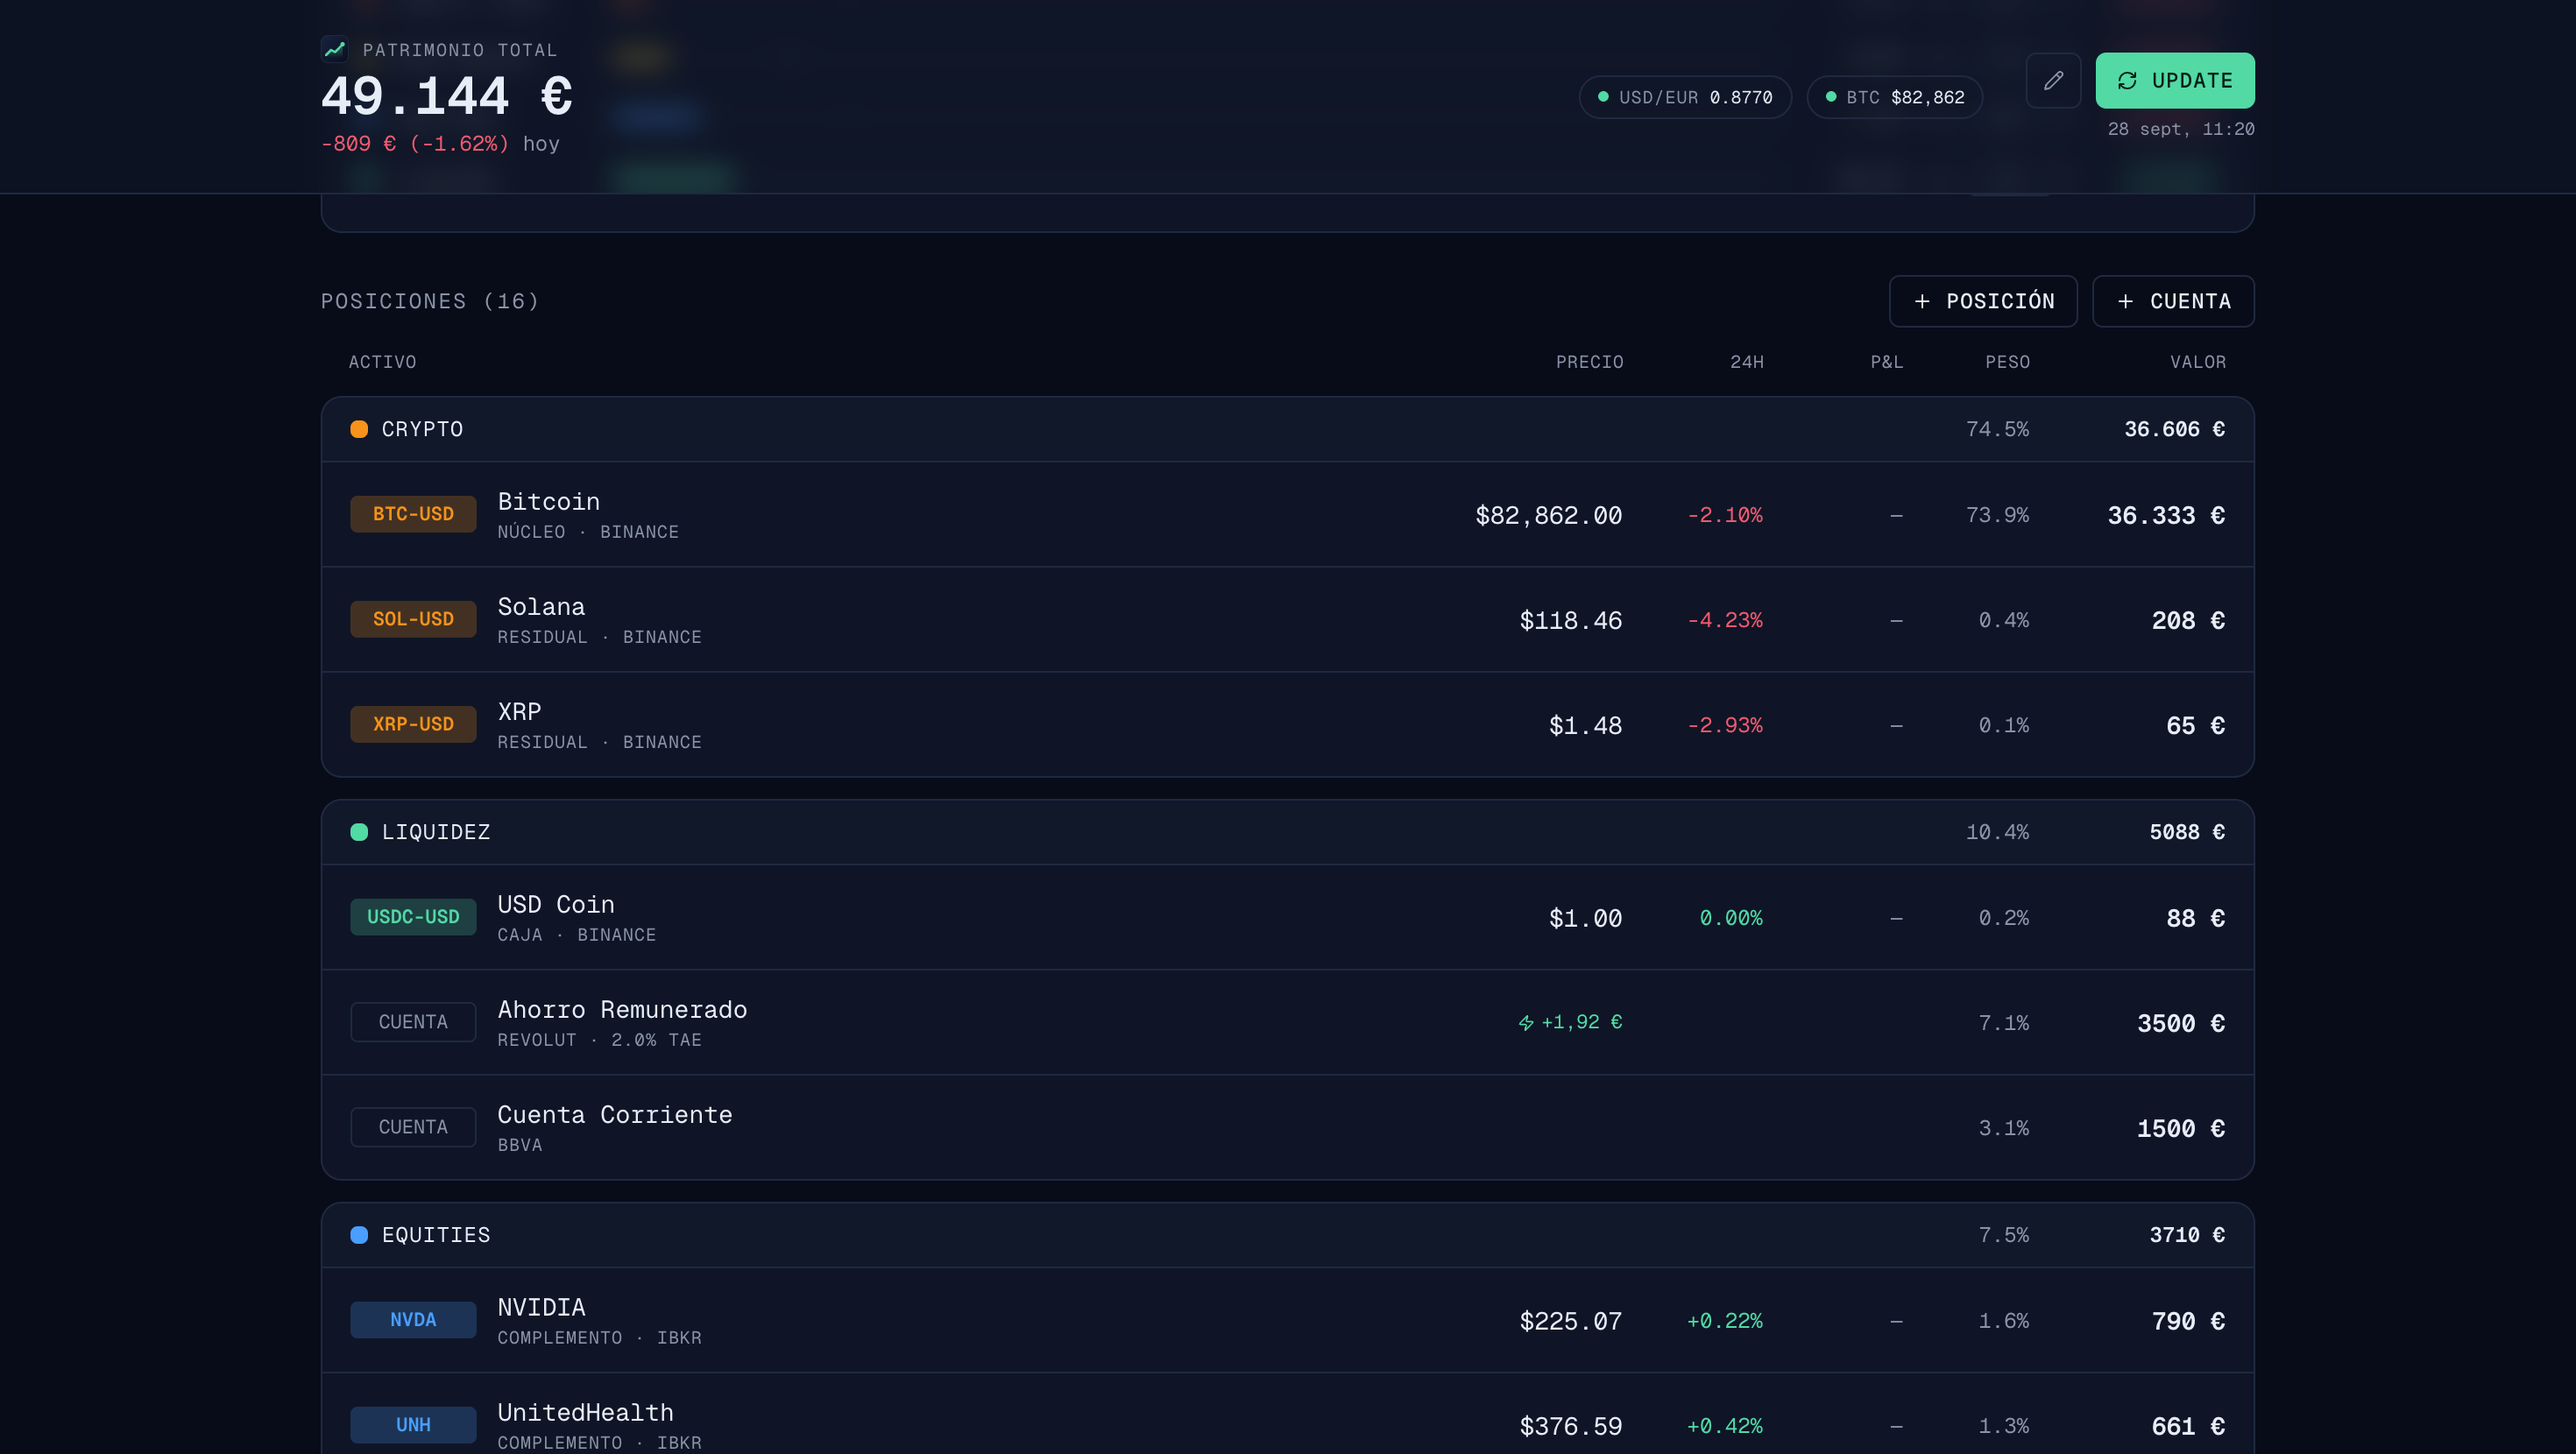
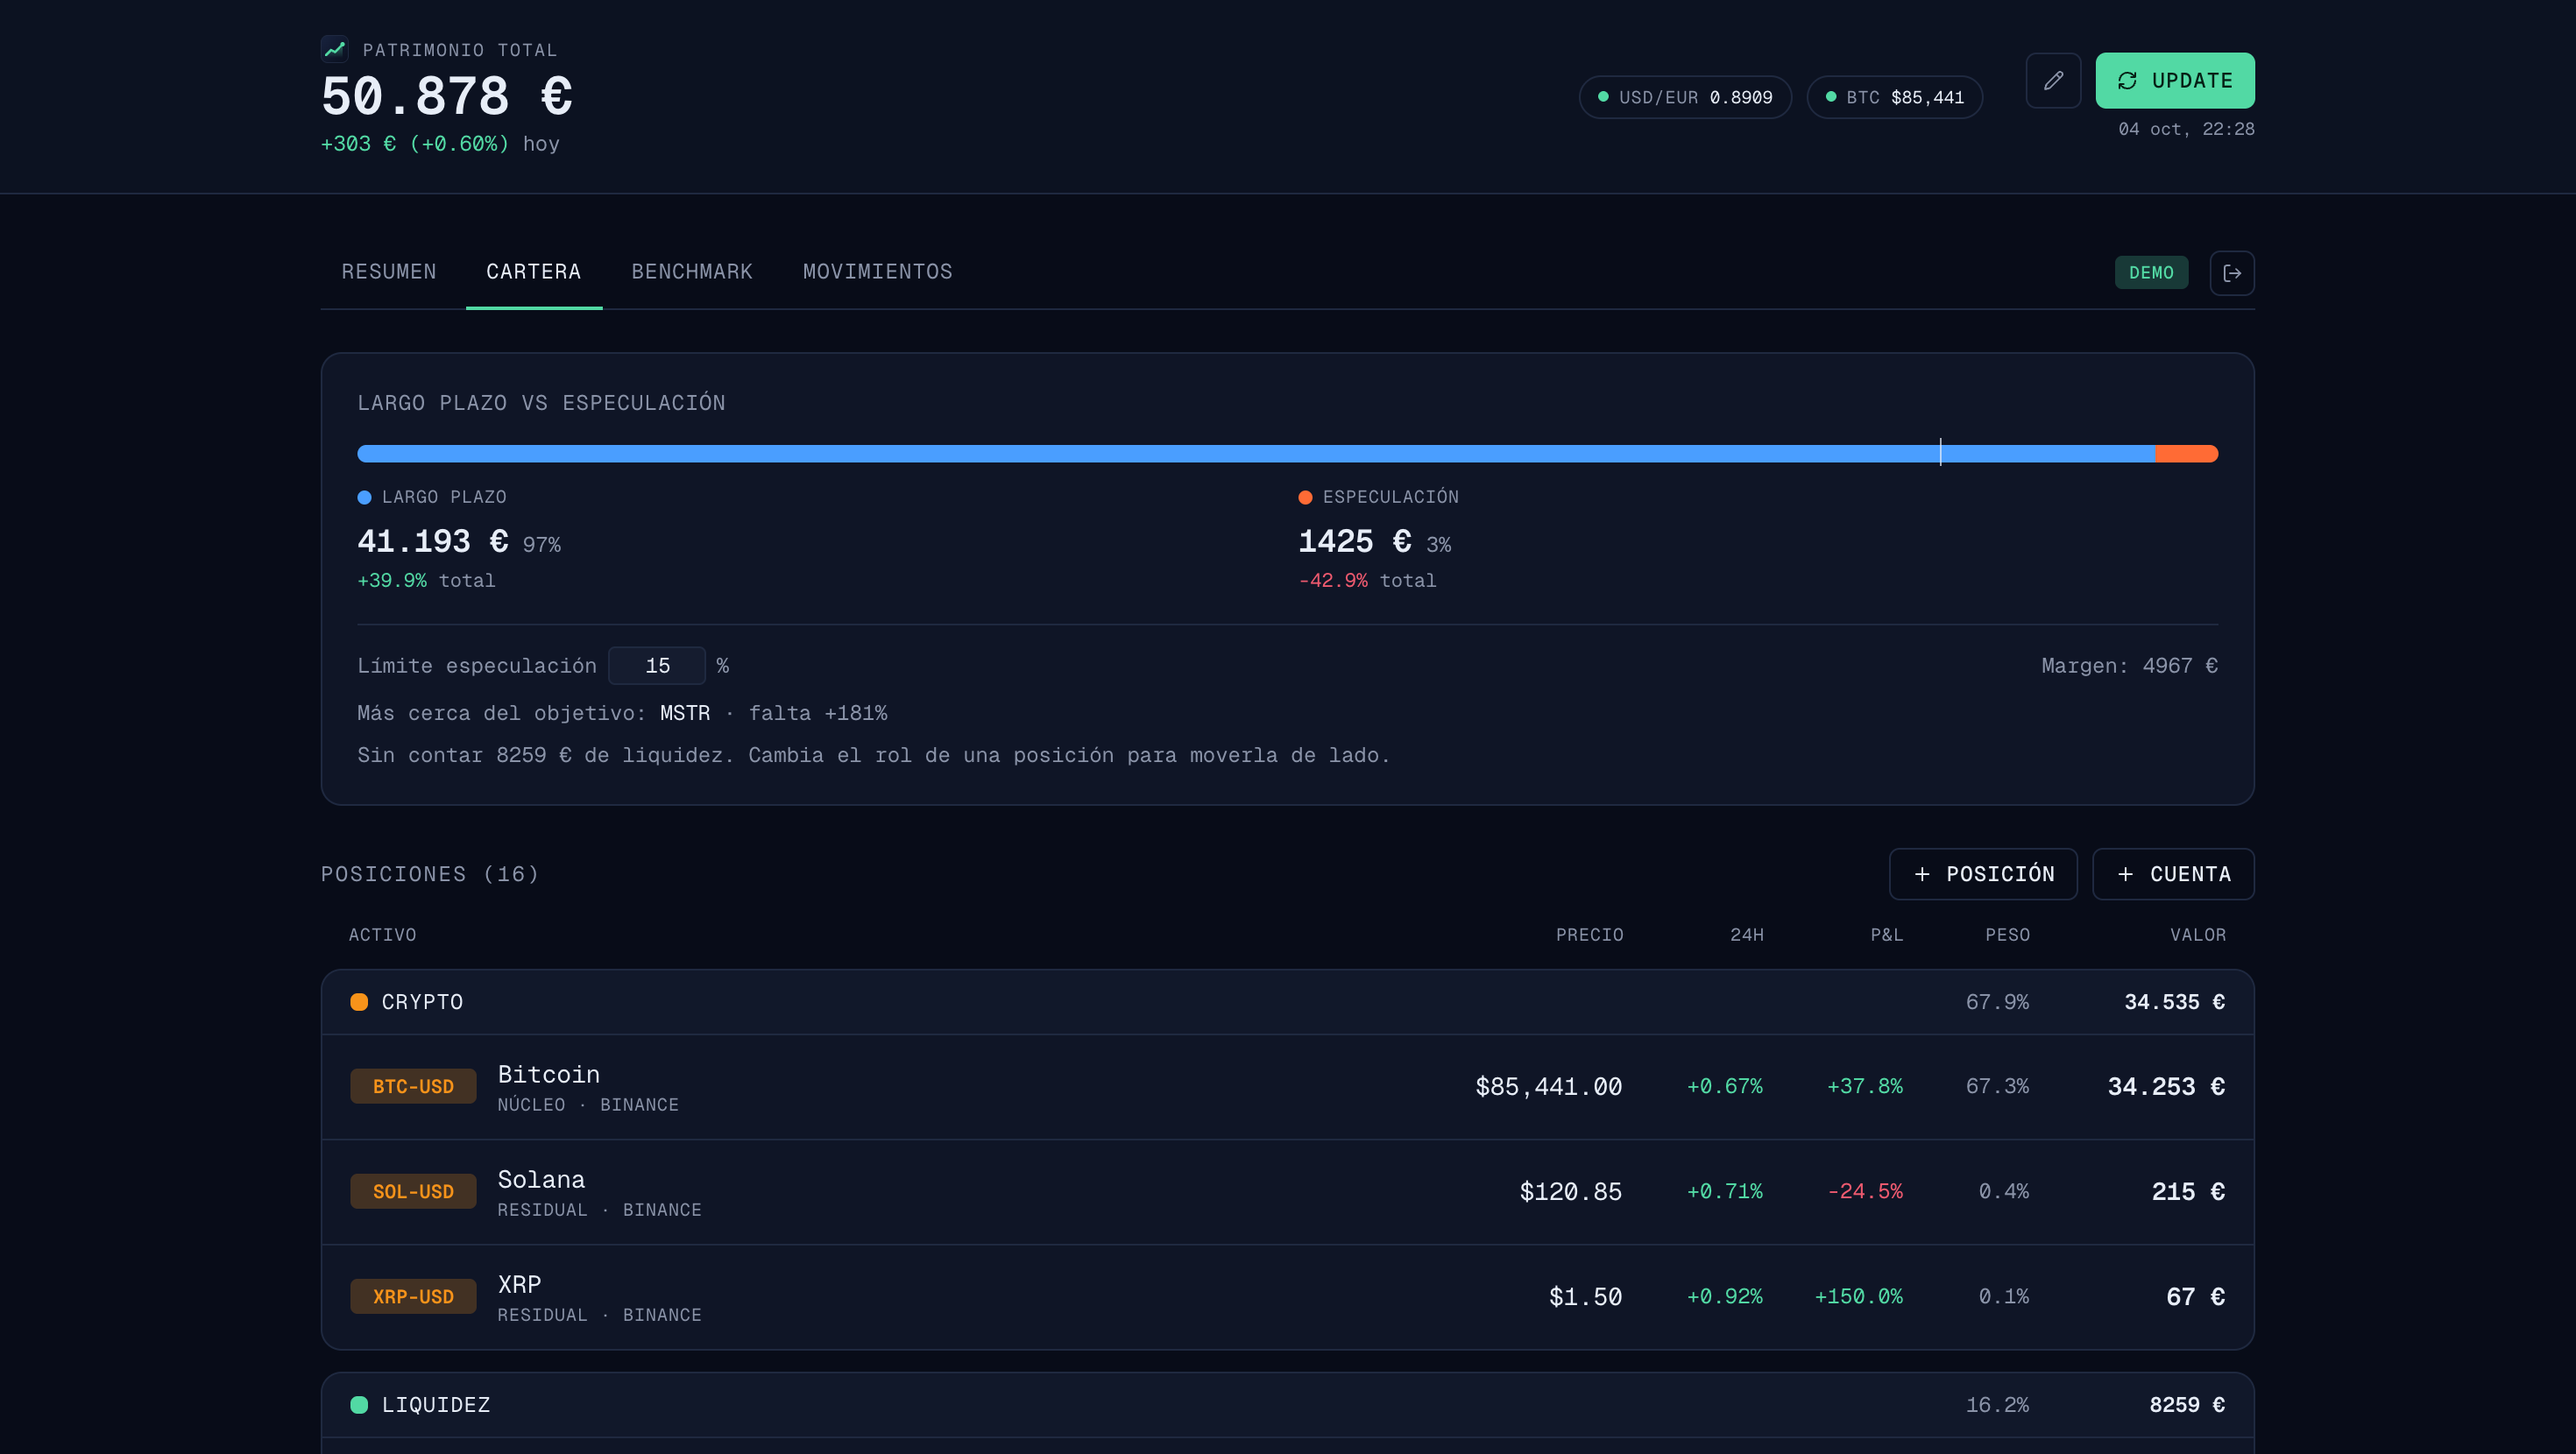
docs(readme): cover the features added since the last refresh, new screenshots and demo
The README still described the app before benchmark, the speculation
split, undo, dividends, FIFO tax and push alerts, and the screenshots
showed the old top tab bar. Highlights, screenshots (new Benchmark one),
concepts, migrations range, security notes and structure are updated,
and the demo GIF is re-recorded from the current /demo.

diff --git a/README.md b/README.md
@@ -23,27 +23,36 @@ is in Spanish, code, schema and docs are in English.
 ## Highlights
 
 - **Performance first.** The home screen opens with market P&L for the
-  selected range (1D → ALL) and the net-worth evolution chart right below,
-  in € or %. Contributions are excluded, so you see what the market did —
-  not what you deposited.
-- **One portfolio view.** Allocation vs target per category, then every
-  position and cash account in compact rows grouped by category: price, 24h,
-  P&L, weight and value.
-- **A plan, not just numbers.** Liquidity cushion vs target, this month's
-  contribution rule, and progress towards every price target.
-- **Scenario simulator.** Drag BTC, MSTR or USD/EUR and see your net worth
-  move.
-- **Journal with review step.** Queue buys, sells, deposits and withdrawals;
-  nothing touches the database until you apply them. External money is
-  logged as a contribution so it never inflates performance.
+  selected range (1D → ALL) and the net-worth evolution chart, in € or %.
+  Contributions are placed at the moment they were recorded and excluded, so
+  you see what the market did — not what you deposited.
+- **Benchmark.** Time-weighted return of your portfolio against buy-and-hold
+  S&P 500 and Bitcoin over the same range, all in € or all in $.
+- **Long-term vs speculation.** Positions are split by role into a long-term
+  core and a speculative pool, each with value, weight and cumulative P&L,
+  plus a cap that tells you when the bets have grown too big.
+- **One portfolio view.** Every position and cash account grouped by category:
+  price, today's move, cumulative % vs your average cost and the exit target
+  with how far it still is. A folded rebalance card says how many euros to buy
+  or sell per category to get back to your targets.
+- **Price-target alerts.** A push notification on your phone the day a
+  position reaches its target (installed iOS app supported).
+- **Journal with review and undo.** Queue buys, sells (with commissions),
+  deposits, withdrawals and dividends; nothing touches the database until you
+  apply them. External money is logged as a contribution so it never inflates
+  performance. Any entry can be undone together with its cash counterpart.
+- **Spanish tax summary.** Realized gains per year with FIFO (fees included),
+  dividends and withholding, the two-month rule flagged and an orientative
+  tax on the savings scale. CSV export for everything.
 - **Interest accrual** on savings accounts, applied with one click.
 - **Live prices from free APIs.** CoinGecko for crypto and Frankfurter (ECB)
-  for USD/EUR need no key; Finnhub (free key) covers US stocks. Prices are only fetched when
-  you press `UPDATE`, and every update stores a snapshot.
+  for USD/EUR need no key; Finnhub (free key) covers US stocks. Prices are only
+  fetched when you press `UPDATE` (plus an optional daily snapshot).
 - **Passwordless and multi-tenant.** Email one-time code (or magic link);
   Postgres row-level security isolates every user's rows.
-- **Installable.** Add it to your phone's home screen and it runs full-screen
-  with its own icon. The layout is designed for mobile first.
+- **Mobile-first and installable.** Bottom tab bar that hides while you
+  scroll, a compact header, and your last tab and ranges remembered. Add it to
+  the home screen and it runs full-screen with its own icon.
 - **Public demo** with fictitious holdings and real prices. Everything works,
   nothing persists.
 
@@ -53,25 +62,29 @@ is in Spanish, code, schema and docs are in English.
 
 ### Resumen
 Market performance, evolution chart, category breakdown, liquidity cushion
-and plan.
+and plan (price targets and the alerts toggle).
 
 ![Resumen](./assets/02-resumen.png)
 
 ### Cartera
-Positions and accounts grouped by category. Tap any row to edit it.
+Long-term vs speculation on top, then positions and accounts grouped by
+category. Tap any row to edit it. Rebalancing and the scenario simulator are
+folded at the bottom.
 
 ![Cartera](./assets/03-cartera.png)
 
 ![Edit position](./assets/04-edit-position.png)
 
 ### Benchmark
-Time-weighted return of your portfolio (contributions neutralised) against
-buy-and-hold S&P 500 and Bitcoin over the same range, in € or $.
+Time-weighted return (contributions neutralised) against buy-and-hold S&P 500
+and Bitcoin, with how far ahead or behind you are.
+
+![Benchmark](./assets/07-benchmark.png)
 
 ### Movimientos
-Build operations from a form, review them, apply them in one go. Below, the
-trade log (with realized P&L on sells) and the contribution history, both
-exportable to CSV.
+Build operations from a form, review them, apply them in one go. Below: the
+trade log (commissions, realized P&L), dividends, the FIFO tax summary and the
+contribution history — each row can be undone, each list exported to CSV.
 
 ![Movimientos](./assets/05-movimientos.png)
 
@@ -93,10 +106,12 @@ where magic links can't (iOS gives it separate storage from Safari).
 |---|---|
 | **Positions** | Tickers you hold: shares, optional average price (enables P&L), optional target price, category, platform and role. |
 | **Accounts** | Cash or savings balances in EUR, with an optional annual rate for interest accrual. |
-| **Snapshots** | Every `UPDATE` stores total, breakdown, prices and FX. The evolution chart and range P&L are computed from them. |
-| **Contributions** | External money (salary, new savings). Subtracted from P&L so performance reflects the market only. |
-| **Roles** | `core`, `tactica`, `cobertura`, `complemento`, `caja`, `residual` — each with a one-line rule shown as a tooltip. |
-| **Policy** | Liquidity target, monthly expenses and contribution amount live in `lib/policy.ts`. |
+| **Snapshots** | Every `UPDATE` (and the daily cron) stores total, breakdown, prices and FX. Charts, range P&L and the TWR are computed from them. |
+| **Contributions** | External money (salary, new savings). Neutralised at the moment they were recorded, so performance reflects the market only. |
+| **Trades** | Log of every buy/sell applied from the Journal, with commission. Feeds the FIFO tax summary. |
+| **Dividends** | Gross, withholding and the account they landed in. Count as return. |
+| **Roles** | `core`, `tactica`, `cobertura`, `complemento`, `caja`, `residual` — each with a one-line rule. `tactica` is the speculative pool. |
+| **Policy** | Liquidity target, monthly expenses and contribution amount live in `lib/policy.ts`; the speculation cap and category targets are per user. |
 
 Prices are **never** fetched on page load. If a feed fails, the working
 tickers still save a snapshot and the failures show in a banner; the pencil
@@ -128,7 +143,7 @@ npm install
 
 1. [supabase.com](https://supabase.com) → **New project**.
 2. **SQL Editor** → run `supabase/schema.sql`, then each file in
-   `supabase/migrations/` in order (`001` … `005`).
+   `supabase/migrations/` in order (`001` … `008`).
 3. **Authentication → URL Configuration:** set Site URL to
    `http://localhost:3000` (your Vercel URL once deployed) and add
    `http://localhost:3000/**` to Redirect URLs.
@@ -242,7 +257,9 @@ everything from the UI:
   hiding the Supabase publishable key.
 - **Server secrets stay on the server.** The Finnhub key is only used by the
   `/api/prices` route; the Supabase service role key only by
-  `/api/cron/snapshot`, which requires `CRON_SECRET`.
+  `/api/cron/snapshot` (which requires `CRON_SECRET`) and `/api/push/test`
+  (which only sends to the caller, identified by their Supabase session). The
+  VAPID private key never leaves the server.
 - **No analytics, no tracking.** The app only talks to your Supabase and the
   public price feeds.
 
@@ -264,25 +281,33 @@ app/
   api/prices/route.ts         # user-triggered prices (UPDATE button)
   api/cron/snapshot/route.ts  # daily snapshot for every user (Vercel Cron)
   api/benchmark/route.ts      # S&P 500 + BTC history for the Benchmark tab
+  api/push/test/route.ts      # test notification to the caller's devices
   icon.tsx, apple-icon.tsx    # app icons rendered from the logo
   manifest.ts                 # PWA manifest
 components/
   dashboard.tsx               # all state + handlers (live and demo)
-  header.tsx                  # total, today's change, FX/BTC chips, UPDATE
+  header.tsx                  # total, today's change, FX/BTC chips, UPDATE (+ compact bar on phones)
   login-screen.tsx            # email → one-time code
   tabs/overview.tsx           # Resumen
   tabs/portfolio.tsx          # Cartera
   tabs/benchmark.tsx          # Benchmark (TWR vs S&P 500 / BTC)
   tabs/journal.tsx            # Movimientos
-  manual-op-form.tsx          # buy / sell / deposit / withdraw builder
+  manual-op-form.tsx          # buy / sell / deposit / withdraw / dividend builder
+  push-toggle.tsx             # enable price-target alerts on this device
   edit-position-modal.tsx, edit-asset-modal.tsx, update-prices-modal.tsx
   logo.tsx, ui/*
 lib/
-  calculations.ts             # P&L, breakdown, history series, day change
-  policy.ts                   # targets, colors, role rules
+  calculations.ts             # P&L, TWR, breakdown, long-term vs speculation split
+  policy.ts                   # targets, colors, role rules, speculation cap
   journal-ops.ts              # operation types + descriptions
+  journal-undo.ts             # undo plans for trades, contributions, dividends
+  tax.ts                      # FIFO lots, yearly gains, savings-scale estimate
+  push-server.ts              # Web Push + target-alert logic (server only)
+  prices-server.ts, benchmark.ts, use-persistent-state.ts
   seed.ts, demo.ts            # fictitious templates and demo history
-  supabase.ts, types.ts, format.ts
+  supabase.ts, types.ts, format.ts, csv.ts
+public/
+  sw.js                       # service worker: shows push notifications
 supabase/
   schema.sql, migrations/
 ```
@@ -293,9 +318,9 @@ supabase/
 
 - [ ] "Analyze with ChatGPT / Claude" — send an anonymized portfolio summary
       to your own subscription
+- [ ] Prices for European-listed ETFs and stocks (Finnhub free covers US only)
 - [ ] Per-user policy settings (liquidity target, contribution) from the UI
 - [ ] User-defined categories
-- [ ] CSV export
 - [ ] Optional Face ID / Touch ID gate
 
 ---
